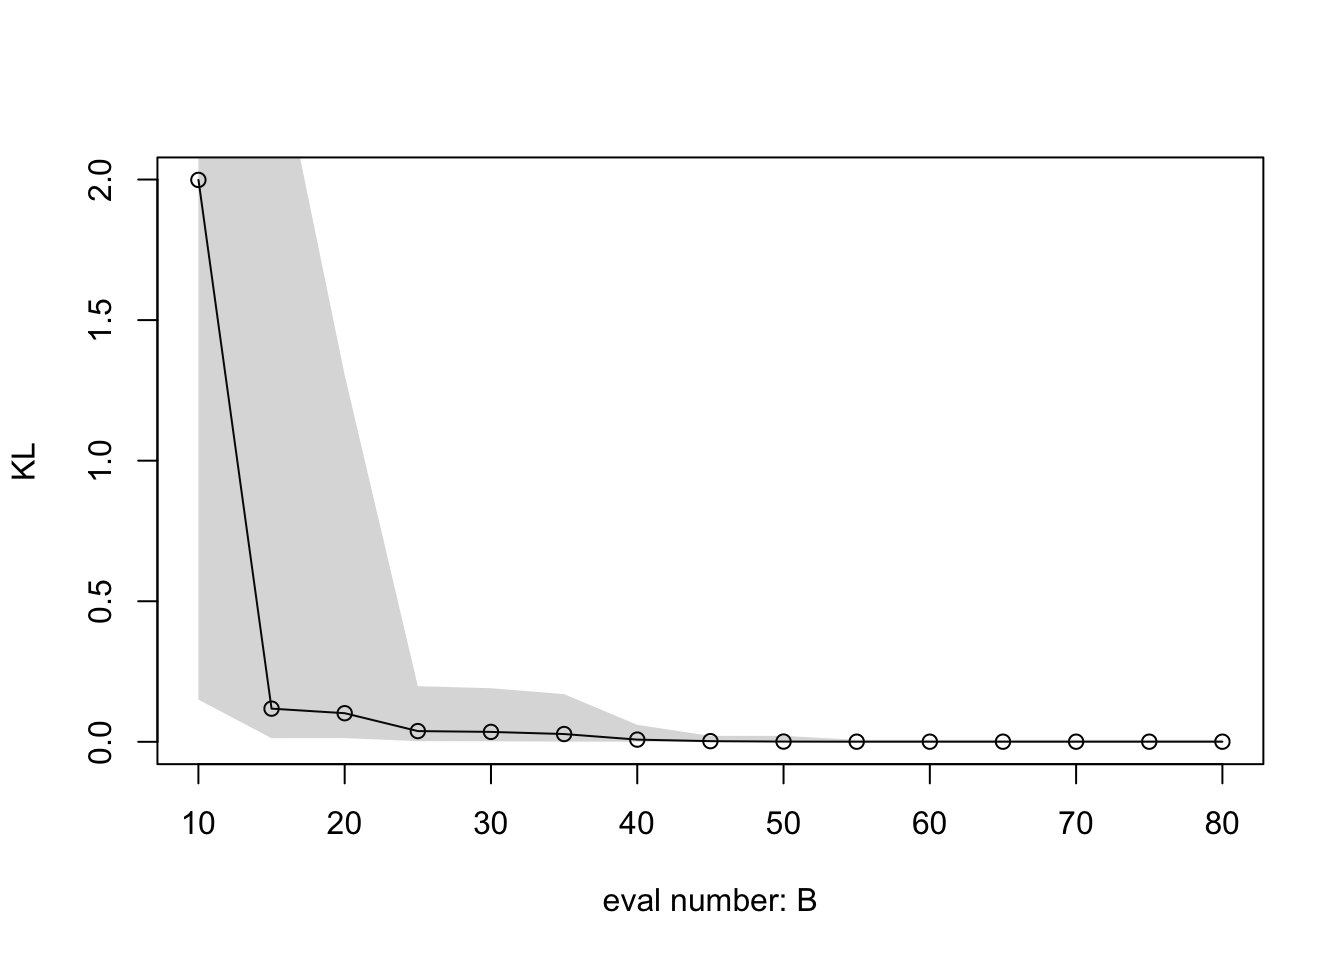
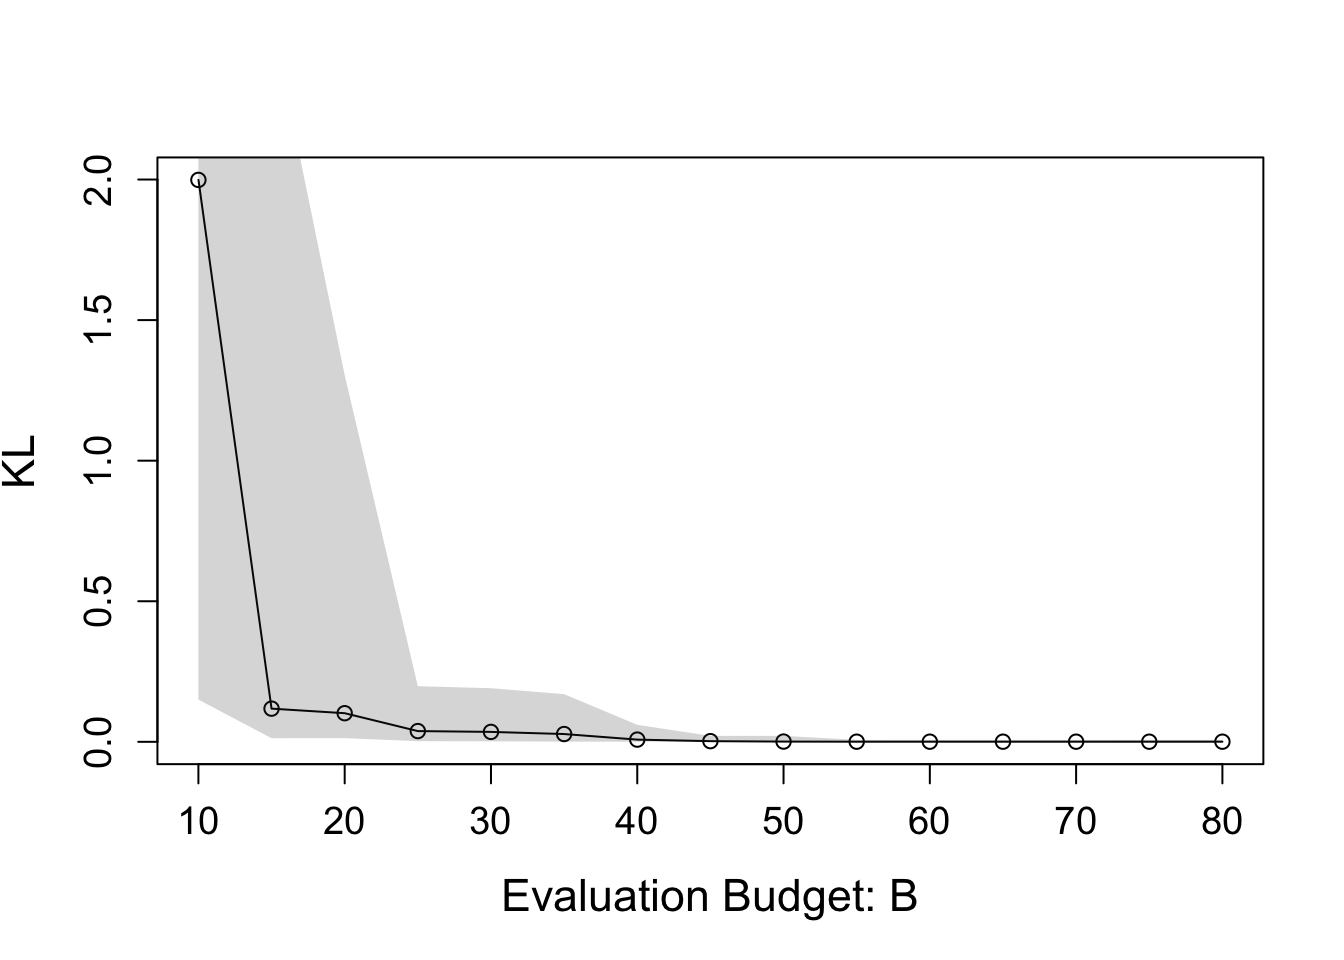
Build site.

diff --git a/docs/sim1.html b/docs/sim1.html
@@ -400,7 +400,7 @@ class="glyphicon glyphicon-ok text-success" aria-hidden="true"></span>
 <div class="tab-content">
 <div id="summary" class="tab-pane fade in active">
 <p>
-<strong>Last updated:</strong> 2025-04-29
+<strong>Last updated:</strong> 2025-05-09
 </p>
 <p>
 <strong>Checks:</strong> <span
@@ -531,15 +531,15 @@ project makes it easier to run your code on other machines.</p>
 <div class="panel panel-default">
 <div class="panel-heading">
 <p class="panel-title">
-<a data-toggle="collapse" data-parent="#workflowr-checks" href="#strongRepositoryversionstrongahrefhttpsgithubcomAgueroZZBOSSwebsitetree7b33730cac4b120787dbb542e40ed09de1cd63fftargetblank7b33730a">
+<a data-toggle="collapse" data-parent="#workflowr-checks" href="#strongRepositoryversionstrongahrefhttpsgithubcomAgueroZZBOSSwebsitetree8aba5320613c08705cc5d002b2dc719bcc2baee8targetblank8aba532a">
 <span class="glyphicon glyphicon-ok text-success"
 aria-hidden="true"></span> <strong>Repository version:</strong>
-<a href="https://github.com/AgueroZZ/BOSS_website/tree/7b33730cac4b120787dbb542e40ed09de1cd63ff" target="_blank">7b33730</a>
+<a href="https://github.com/AgueroZZ/BOSS_website/tree/8aba5320613c08705cc5d002b2dc719bcc2baee8" target="_blank">8aba532</a>
 </a>
 </p>
 </div>
 <div
[2 lines of base64/hex data omitted]
 class="panel-collapse collapse">
 <div class="panel-body">
 <p>
@@ -549,7 +549,7 @@ reproducibility.
 </p>
 <p>
 The results in this page were generated with repository version
-<a href="https://github.com/AgueroZZ/BOSS_website/tree/7b33730cac4b120787dbb542e40ed09de1cd63ff" target="_blank">7b33730</a>.
+<a href="https://github.com/AgueroZZ/BOSS_website/tree/8aba5320613c08705cc5d002b2dc719bcc2baee8" target="_blank">8aba532</a>.
 See the <em>Past versions</em> tab to see a history of the changes made
 to the R Markdown and HTML files.
 </p>
@@ -587,20 +587,11 @@ Untracked files:
     Untracked:  output/mortality/BO_result_NL.rda
     Untracked:  output/mortality/mod_BG.rda
     Untracked:  output/mortality/mod_NL.rda
-    Untracked:  output/sim1/figures/
-    Untracked:  output/sim1/result_ad.rda
-    Untracked:  output/sim2/BOSS_result.rda
     Untracked:  output/sim2/quad_sparse_list.rda
     Untracked:  output/simA1/
 
 Unstaged changes:
-    Modified:   analysis/problem_with_opt.rmd
-    Modified:   code/00_BOSS.R
-    Modified:   output/sim1/BO_result_list.rda
-    Modified:   output/sim1/BO_result_original_list.rda
-    Modified:   output/sim1/all_result.rda
-    Modified:   output/sim1/kl_compare.pdf
-    Modified:   output/sim1/ks_compare.pdf
+    Modified:   BOSS_website.Rproj
     Modified:   output/sim2/BO_data_to_smooth.rda
     Modified:   output/sim2/BO_result_list.rda
     Modified:   output/sim2/rel_runtime.rda
@@ -647,6 +638,57 @@ Message
 </tr>
 </thead>
 <tbody>
+<tr>
+<td>
+Rmd
+</td>
+<td>
+<a href="https://github.com/AgueroZZ/BOSS_website/blob/8aba5320613c08705cc5d002b2dc719bcc2baee8/analysis/sim1.Rmd" target="_blank">8aba532</a>
+</td>
+<td>
+Ziang Zhang
+</td>
+<td>
+2025-05-09
+</td>
+<td>
+workflowr::wflow_publish("analysis/sim1.Rmd")
+</td>
+</tr>
+<tr>
+<td>
+Rmd
+</td>
+<td>
+<a href="https://github.com/AgueroZZ/BOSS_website/blob/88e29b35b519d4137375f511237fa581c0053fd6/analysis/sim1.Rmd" target="_blank">88e29b3</a>
+</td>
+<td>
+Ziang Zhang
+</td>
+<td>
+2025-04-30
+</td>
+<td>
+update boss_kl
+</td>
+</tr>
+<tr>
+<td>
+html
+</td>
+<td>
+<a href="https://rawcdn.githack.com/AgueroZZ/BOSS_website/c26029a279527f94b92c855afea9fa0997613c33/docs/sim1.html" target="_blank">c26029a</a>
+</td>
+<td>
+Ziang Zhang
+</td>
+<td>
+2025-04-29
+</td>
+<td>
+Build site.
+</td>
+</tr>
 <tr>
 <td>
 Rmd
@@ -1014,7 +1056,7 @@ surrogate &lt;- function(xvalue, data_to_smooth, choice_cov) {
 <div id="exact-grid-implementation" class="section level2">
 <h2>Exact Grid Implementation</h2>
 <p>First, as an oracle approach, we set up a dense grid on <span
-class="math inline">\(\[0.5,4.5\]\)</span>:</p>
+class="math inline">\([0.5,4.5]\)</span>:</p>
 <pre class="r"><code>x_vals &lt;- seq(lower, upper, by = 0.005)</code></pre>
 <p>Compute the objective function on the grid:</p>
 <pre class="r"><code>begin_time &lt;- Sys.time()
@@ -1173,6 +1215,17 @@ Date
 </tr>
 </thead>
 <tbody>
+<tr>
+<td>
+<a href="https://github.com/AgueroZZ/BOSS_website/blob/c26029a279527f94b92c855afea9fa0997613c33/docs/figure/sim1.Rmd/unnamed-chunk-9-1.png" target="_blank">c26029a</a>
+</td>
+<td>
+Ziang Zhang
+</td>
+<td>
+2025-04-29
+</td>
+</tr>
 <tr>
 <td>
 <a href="https://github.com/AgueroZZ/BOSS_website/blob/761276f9d13774be37b863d423c03f6a86d8c274/docs/figure/sim1.Rmd/unnamed-chunk-9-1.png" target="_blank">761276f</a>
@@ -1737,8 +1790,8 @@ upper_result &lt;- all_result %&gt;% group_by(eval_num) %&gt;%
   summarise(KL = quantile(KL, 0.9), KS = quantile(KS, 0.9))
 
 plot(median_result$eval_num, median_result$KL, type = &quot;o&quot;, 
-     ylab = &quot;KL&quot;, xlab = &quot;eval number: B&quot;,
-     cex.lab = 1.0, cex.axis = 1.0)
+     ylab = &quot;KL&quot;, xlab = &quot;Evaluation Budget: B&quot;,
+     cex.lab = 1.4, cex.axis = 1.2)
 polygon(c(median_result$eval_num, rev(median_result$eval_num)), 
         c(lower_result$KL, rev(upper_result$KL)), 
         col = rgb(0.2, 0.2, 0.2, 0.2), border = NA)</code></pre>
@@ -1781,8 +1834,8 @@ Ziang Zhang
 </div>
 </div>
 <pre class="r"><code>plot(median_result$eval_num, median_result$KS, type = &quot;o&quot;,
-     ylab = &quot;KS&quot;, xlab = &quot;eval number: B&quot;, 
-     cex.lab = 1.0, cex.axis = 1.0)
+     ylab = &quot;KS&quot;, xlab = &quot;Evaluation Budget: B&quot;, 
+     cex.lab = 1.4, cex.axis = 1.2)
 polygon(c(median_result$eval_num, rev(median_result$eval_num)), 
         c(lower_result$KS, rev(upper_result$KS)), 
         col = rgb(0.2, 0.2, 0.2, 0.2), border = NA)</code></pre>
